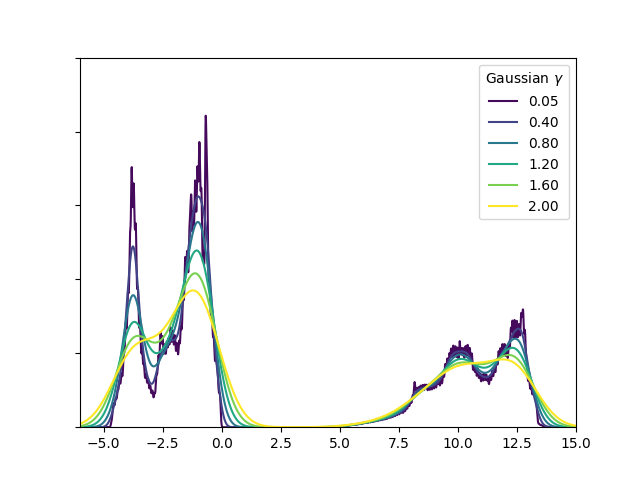
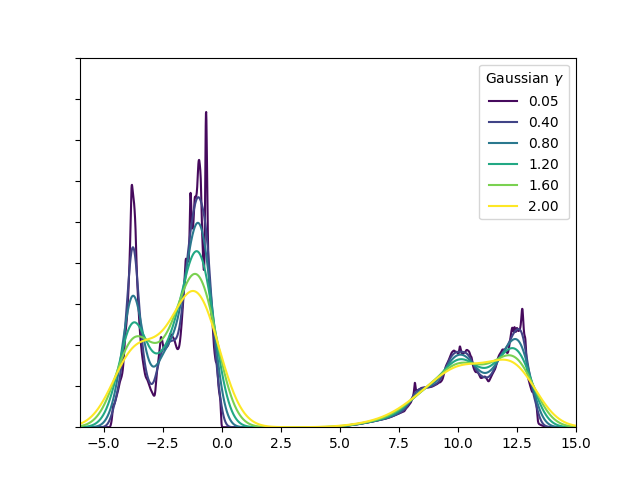
DOC: Update broadening Python API demo

diff --git a/docs/source/api_demo_dos_broadening.py b/docs/source/api_demo_dos_broadening.py
@@ -28,7 +28,7 @@ for g in widths:
     line.set_label("{0:2.2f}".format(g))
     line.set_color(cmap(g / max(widths)))
 
-ax.set_ylim(0, 1000)
+ax.set_ylim(0, 1800)
 legend = ax.legend(loc='best')
 legend.set_title('Gaussian $\gamma$')
 plt.show()
